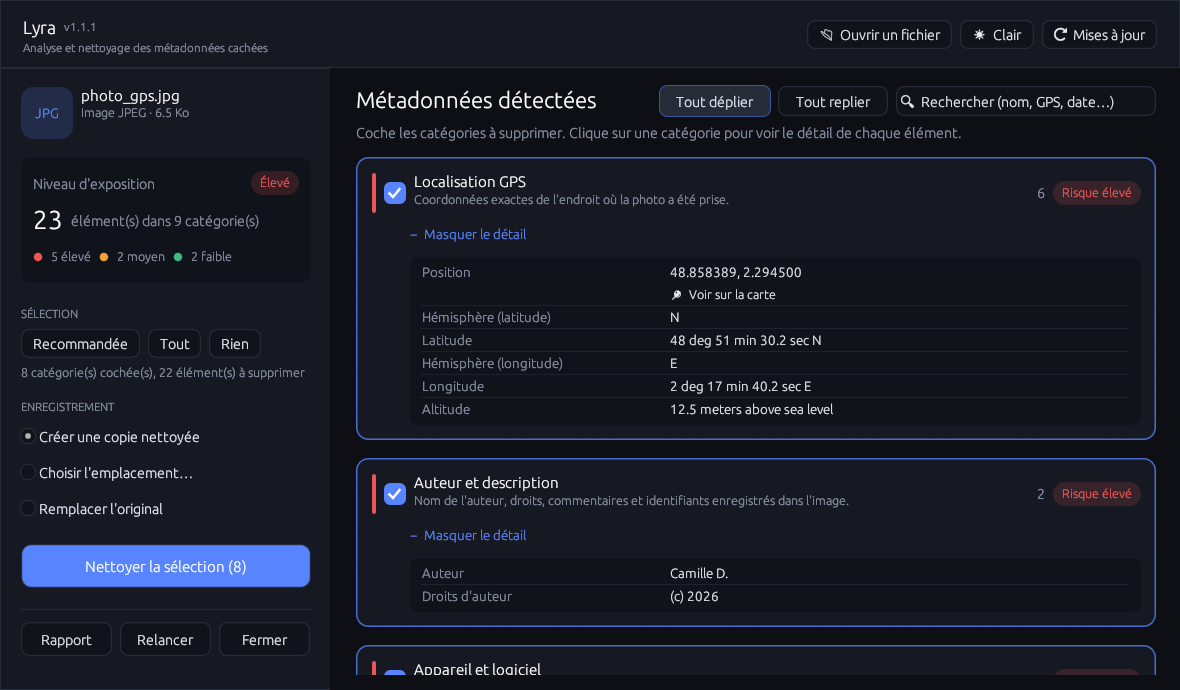
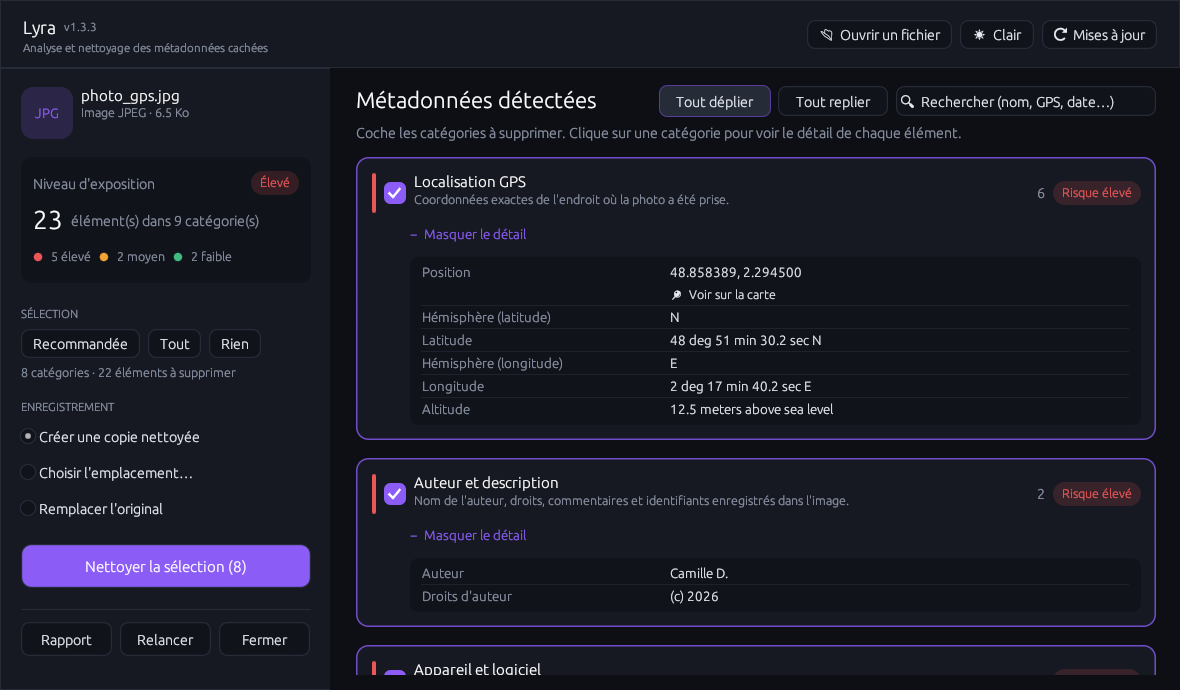
Lyra 1.4.0 : direction artistique violette
- Couleur d'accent violette dans l'interface (thèmes sombre et clair)
- Iris et transition « décodage » de l'écran de chargement en violet
- Logo, icône de l'exe et de la fenêtre en violet
- Captures du README refaites

Claude-Session: https://claude.ai/code/session_01DxQRmfZ56gbRRnpsW7RzET

diff --git a/src/splash.rs b/src/splash.rs
@@ -33,7 +33,7 @@ const REVEAL: (f32, f32) = (5.2, 6.25);
 pub const DURATION: f32 = 6.25;
 
 const GREY: Color32 = Color32::from_rgb(201, 206, 216);
-const ACCENT: Color32 = Color32::from_rgb(88, 132, 255);
+const ACCENT: Color32 = Color32::from_rgb(155, 107, 255);
 
 pub struct Splash {
     start: Option<f64>,
@@ -301,7 +301,7 @@ impl Splash {
                             continue;
                         }
                         if lp > 0.0 {
-                            // Case en cours de « décodage » : caractères bleus qui
+                            // Case en cours de « décodage » : caractères violets qui
                             // scintillent puis s'amenuisent avant de disparaître.
                             let energy = (1.0 - lp) * (0.55 + 0.45 * hash(c, r, flicker));
                             let i = (energy * (RAMP.len() - 1) as f32).round().clamp(1.0, (RAMP.len() - 1) as f32) as usize;

diff --git a/src/gui.rs b/src/gui.rs
@@ -61,7 +61,7 @@ impl Pal {
                 border: Color32::from_rgb(38, 43, 56),
                 text: Color32::from_rgb(232, 235, 242),
                 weak: Color32::from_rgb(140, 148, 166),
-                accent: Color32::from_rgb(88, 132, 255),
+                accent: Color32::from_rgb(139, 92, 246),
                 success: Color32::from_rgb(52, 199, 120),
             }
         } else {
@@ -72,7 +72,7 @@ impl Pal {
                 border: Color32::from_rgb(222, 226, 234),
                 text: Color32::from_rgb(24, 28, 38),
                 weak: Color32::from_rgb(105, 112, 128),
-                accent: Color32::from_rgb(52, 98, 235),
+                accent: Color32::from_rgb(124, 58, 237),
                 success: Color32::from_rgb(28, 150, 85),
             }
         }
